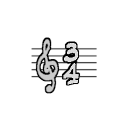
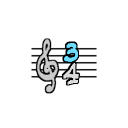
Added TimeSignatures

diff --git a/src/main/java/theRhythmGirl/ui/BeatUI.java b/src/main/java/theRhythmGirl/ui/BeatUI.java
@@ -16,9 +16,12 @@ import com.megacrit.cardcrawl.helpers.FontHelper;
 import com.megacrit.cardcrawl.helpers.Hitbox;
 import com.megacrit.cardcrawl.helpers.PowerTip;
 import com.megacrit.cardcrawl.helpers.TipHelper;
+import com.megacrit.cardcrawl.localization.PowerStrings;
+import com.megacrit.cardcrawl.localization.RelicStrings;
 import com.megacrit.cardcrawl.localization.UIStrings;
 import com.megacrit.cardcrawl.orbs.AbstractOrb;
 import com.megacrit.cardcrawl.powers.AbstractPower;
+import com.megacrit.cardcrawl.relics.AbstractRelic;
 import com.megacrit.cardcrawl.rooms.AbstractRoom;
 import com.megacrit.cardcrawl.rooms.MonsterRoom;
 import com.megacrit.cardcrawl.vfx.combat.FlashPowerEffect;
@@ -27,18 +30,15 @@ import org.apache.logging.log4j.Logger;
 import theRhythmGirl.RhythmGirlMod;
 import theRhythmGirl.cards.AbstractRhythmGirlCard;
 import theRhythmGirl.cards.CoffeeBreak;
-import theRhythmGirl.powers.CoffeeBreakPower;
-import theRhythmGirl.powers.MeasurePower;
-import theRhythmGirl.powers.OnGainBeatSubscriber;
-import theRhythmGirl.powers.RhythmHeavenPower;
-import theRhythmGirl.relics.TimeSignature44;
+import theRhythmGirl.powers.*;
+import theRhythmGirl.relics.*;
 import theRhythmGirl.util.TextureLoader;
 import java.util.ArrayList;
 import java.util.Arrays;
 import java.util.HashMap;
 import java.util.List;
 
-import static theRhythmGirl.RhythmGirlMod.makeUIPath;
+import static theRhythmGirl.RhythmGirlMod.*;
 
 public class BeatUI
 {
@@ -50,7 +50,6 @@ public class BeatUI
     private static final float PILLAR_SPACING_MARGIN = 6.0f;
     private static final float X_OFFSET = 16;
     private static final float Y_OFFSET = 196;
-    private static final int DEFAULT_NUMBER_OF_PILLARS = 4;
     private float floatyTimer = 0;
     private final Hitbox hitbox;
 
@@ -222,7 +221,7 @@ public class BeatUI
         //set target X, Y
         int target = marshalAnimationActive.target;
         if (target == 1 && marshalAnimationActive.type == MarshalAnimationTypes.JUMPING &&  marshalAnimationTimeElapsed <= marshalAnimationDuration/2)
-            target = 5;
+            target = getNumberOfPillars()+1;
         marshalAnimationX = getX()+(target-1)*getPillarSpacing()*Settings.scale
                 -marshalRegion.getRegionWidth()/2.0f*Settings.scale;
         marshalAnimationY = getY()+MARSHAL_FEET_Y_OFFSET*Settings.scale;
@@ -370,11 +369,21 @@ public class BeatUI
         return (lineRegion.getRegionWidth()+allPillarRegions.get(BeatColor.NORMAL).getRegionWidth()+PILLAR_SPACING_MARGIN);
     }
 
-    public int getNumberOfPillars() {
+    public TimeSignature getTimeSignatureRelic(){
+        if (AbstractDungeon.player.hasRelic(TimeSignature24.ID))
+            return (TimeSignature)AbstractDungeon.player.getRelic(TimeSignature24.ID);
+        if (AbstractDungeon.player.hasRelic(TimeSignature34.ID))
+            return (TimeSignature)AbstractDungeon.player.getRelic(TimeSignature34.ID);
         if (AbstractDungeon.player.hasRelic(TimeSignature44.ID))
-            return 4;
-        //logger.error("Player has no time signature relic");
-        return DEFAULT_NUMBER_OF_PILLARS;
+            return (TimeSignature)AbstractDungeon.player.getRelic(TimeSignature44.ID);
+        if (AbstractDungeon.player.hasRelic(TimeSignature54.ID))
+            return (TimeSignature)AbstractDungeon.player.getRelic(TimeSignature54.ID);
+        AbstractDungeon.getCurrRoom().spawnRelicAndObtain((float)(Settings.WIDTH / 2), (float)(Settings.HEIGHT / 2), new TimeSignature54());
+        return getTimeSignatureRelic();
+    }
+
+    public int getNumberOfPillars() {
+        return getTimeSignatureRelic().getNumberOfBeatsPerMeasure();
     }
 
     public float getX() {
@@ -490,8 +499,11 @@ public class BeatUI
                     tips.add(new PowerTip(power.name, power.description, power.region48));
                 }
 
+                AbstractRelic timeSignatureRelic = ((AbstractRelic)getTimeSignatureRelic());
+                tips.add(new PowerTip(timeSignatureRelic.name, timeSignatureRelic.description, timeSignatureRelic.largeImg));
+
                 TipHelper.queuePowerTips(
-                        hitbox.x + hitbox.width + 12*Settings.scale,
+                        hitbox.x + hitbox.width + 16*Settings.scale,
                         hitbox.y + hitbox.height/2 + height/2 + 74 * Settings.scale,
                         tips
                 );

diff --git a/src/main/java/theRhythmGirl/relics/TimeSignature34.java b/src/main/java/theRhythmGirl/relics/TimeSignature34.java
@@ -1,0 +1,54 @@
+package theRhythmGirl.relics;
+
+import basemod.abstracts.CustomRelic;
+import com.badlogic.gdx.graphics.Texture;
+import com.megacrit.cardcrawl.characters.AbstractPlayer;
+import com.megacrit.cardcrawl.dungeons.AbstractDungeon;
+import theRhythmGirl.RhythmGirlMod;
+import theRhythmGirl.util.TextureLoader;
+
+import static theRhythmGirl.RhythmGirlMod.makeRelicOutlinePath;
+import static theRhythmGirl.RhythmGirlMod.makeRelicPath;
+
+public class TimeSignature34 extends CustomRelic implements TimeSignature {
+
+    public static final String ID = RhythmGirlMod.makeID("TimeSignature34");
+
+    private static final Texture IMG = TextureLoader.getTexture(makeRelicPath(TimeSignature34.class.getSimpleName()+".png"));
+    private static final Texture OUTLINE = TextureLoader.getTexture(makeRelicOutlinePath(TimeSignature34.class.getSimpleName()+".png"));
+
+    public TimeSignature34() {
+        super(ID, IMG, OUTLINE, RelicTier.SHOP, LandingSound.MAGICAL);
+    }
+
+    @Override
+    public String getUpdatedDescription() {
+        return DESCRIPTIONS[0];
+    }
+
+    @Override
+    public void instantObtain(AbstractPlayer p, int slot, boolean callOnEquip){
+        // This method is called by StoreRelic.purchaseRelic
+        // Try to overwrite TimeSignature44 instead of taking up a new slot
+        for (int i=0; i<AbstractDungeon.player.relics.size(); i++) {
+            if (AbstractDungeon.player.relics.get(i).relicId.equals(TimeSignature44.ID)) {
+                slot = i;
+                break;
+            }
+        }
+        super.instantObtain(p, slot, callOnEquip);
+    }
+
+    @Override
+    public boolean canSpawn() {return AbstractDungeon.player.hasRelic(TimeSignature44.ID);}
+
+    @Override
+    public void onVictory() {
+        this.counter = -1;
+    }
+
+    @Override
+    public int getNumberOfBeatsPerMeasure() {
+        return 3;
+    }
+}

diff --git a/src/main/java/theRhythmGirl/relics/TimeSignature24.java b/src/main/java/theRhythmGirl/relics/TimeSignature24.java
@@ -1,0 +1,55 @@
+package theRhythmGirl.relics;
+
+import basemod.abstracts.CustomRelic;
+import com.badlogic.gdx.graphics.Texture;
+import com.megacrit.cardcrawl.dungeons.AbstractDungeon;
+import theRhythmGirl.RhythmGirlMod;
+import theRhythmGirl.util.TextureLoader;
+
+import static theRhythmGirl.RhythmGirlMod.makeRelicOutlinePath;
+import static theRhythmGirl.RhythmGirlMod.makeRelicPath;
+
+public class TimeSignature24 extends CustomRelic implements TimeSignature {
+
+    public static final String ID = RhythmGirlMod.makeID("TimeSignature24");
+
+    private static final Texture IMG = TextureLoader.getTexture(makeRelicPath(TimeSignature24.class.getSimpleName()+".png"));
+    private static final Texture OUTLINE = TextureLoader.getTexture(makeRelicOutlinePath(TimeSignature24.class.getSimpleName()+".png"));
+
+    public TimeSignature24() {
+        super(ID, IMG, OUTLINE, RelicTier.BOSS, LandingSound.MAGICAL);
+    }
+
+    @Override
+    public String getUpdatedDescription() {
+        return DESCRIPTIONS[0];
+    }
+
+    @Override
+    public void obtain() {
+        // Overwrite TimeSignature44, or just give the relic if no time signature is found
+        if (AbstractDungeon.player.hasRelic(TimeSignature44.ID)) {
+            for (int i=0; i<AbstractDungeon.player.relics.size(); ++i) {
+                if (AbstractDungeon.player.relics.get(i).relicId.equals(TimeSignature44.ID)) {
+                    instantObtain(AbstractDungeon.player, i, true);
+                    break;
+                }
+            }
+        } else {
+            super.obtain();
+        }
+    }
+
+    @Override
+    public boolean canSpawn() {return AbstractDungeon.player.hasRelic(TimeSignature44.ID);}
+
+    @Override
+    public void onVictory() {
+        this.counter = -1;
+    }
+
+    @Override
+    public int getNumberOfBeatsPerMeasure() {
+        return 2;
+    }
+}

diff --git a/src/main/java/theRhythmGirl/RhythmGirlMod.java b/src/main/java/theRhythmGirl/RhythmGirlMod.java
@@ -341,7 +341,10 @@ public class RhythmGirlMod implements
         // in order to automatically differentiate which pool to add the relic too.
 
         // This adds a character specific relic. Only when you play with the mentioned color, will you get this relic.
+        BaseMod.addRelicToCustomPool(new TimeSignature24(), TheRhythmGirl.Enums.COLOR_RHYTHM_GIRL);
+        BaseMod.addRelicToCustomPool(new TimeSignature34(), TheRhythmGirl.Enums.COLOR_RHYTHM_GIRL);
         BaseMod.addRelicToCustomPool(new TimeSignature44(), TheRhythmGirl.Enums.COLOR_RHYTHM_GIRL);
+        BaseMod.addRelicToCustomPool(new TimeSignature54(), TheRhythmGirl.Enums.COLOR_RHYTHM_GIRL);
         BaseMod.addRelicToCustomPool(new Cowbell(), TheRhythmGirl.Enums.COLOR_RHYTHM_GIRL);
 
         // This adds a relic to the Shared pool. Every character can find this relic.
@@ -350,6 +353,10 @@ public class RhythmGirlMod implements
         // Mark relics as seen - makes it visible in the compendium immediately
         // If you don't have this it won't be visible in the compendium until you see them in game
         // (the others are all starters so they're marked as seen in the character file)
+        UnlockTracker.markRelicAsSeen(TimeSignature24.ID);
+        UnlockTracker.markRelicAsSeen(TimeSignature34.ID);
+        UnlockTracker.markRelicAsSeen(TimeSignature44.ID);
+        UnlockTracker.markRelicAsSeen(TimeSignature54.ID);
         UnlockTracker.markRelicAsSeen(Cowbell.ID);
         logger.info("Done adding relics!");
     }

diff --git a/src/main/java/theRhythmGirl/relics/TimeSignature44.java b/src/main/java/theRhythmGirl/relics/TimeSignature44.java
@@ -3,17 +3,20 @@ package theRhythmGirl.relics;
 import basemod.abstracts.CustomRelic;
 import com.badlogic.gdx.graphics.Texture;
 import theRhythmGirl.RhythmGirlMod;
+import theRhythmGirl.cards.BossaNova;
 import theRhythmGirl.util.TextureLoader;
+
+import java.sql.Time;
 
 import static theRhythmGirl.RhythmGirlMod.makeRelicOutlinePath;
 import static theRhythmGirl.RhythmGirlMod.makeRelicPath;
 
-public class TimeSignature44 extends CustomRelic {
+public class TimeSignature44 extends CustomRelic implements TimeSignature {
 
     public static final String ID = RhythmGirlMod.makeID("TimeSignature44");
 
-    private static final Texture IMG = TextureLoader.getTexture(makeRelicPath("timesignature44.png"));
-    private static final Texture OUTLINE = TextureLoader.getTexture(makeRelicOutlinePath("timesignature44.png"));
+    private static final Texture IMG = TextureLoader.getTexture(makeRelicPath(TimeSignature44.class.getSimpleName()+".png"));
+    private static final Texture OUTLINE = TextureLoader.getTexture(makeRelicOutlinePath(TimeSignature44.class.getSimpleName()+".png"));
 
     public TimeSignature44() {
         super(ID, IMG, OUTLINE, RelicTier.STARTER, LandingSound.MAGICAL);
@@ -27,5 +30,10 @@ public class TimeSignature44 extends CustomRelic {
     @Override
     public void onVictory() {
         this.counter = -1;
+    }
+
+    @Override
+    public int getNumberOfBeatsPerMeasure() {
+        return 4;
     }
 }

diff --git a/src/main/java/theRhythmGirl/relics/TimeSignature54.java b/src/main/java/theRhythmGirl/relics/TimeSignature54.java
@@ -1,0 +1,38 @@
+package theRhythmGirl.relics;
+
+import basemod.abstracts.CustomRelic;
+import com.badlogic.gdx.graphics.Texture;
+import theRhythmGirl.RhythmGirlMod;
+import theRhythmGirl.util.TextureLoader;
+
+import static theRhythmGirl.RhythmGirlMod.makeRelicOutlinePath;
+import static theRhythmGirl.RhythmGirlMod.makeRelicPath;
+
+//this relic is held by the BeatUI and used whenever the player does not have an actual 'Time Signature' relic.
+
+public class TimeSignature54 extends CustomRelic implements TimeSignature {
+
+    public static final String ID = RhythmGirlMod.makeID("TimeSignature54");
+
+    private static final Texture IMG = TextureLoader.getTexture(makeRelicPath(TimeSignature54.class.getSimpleName()+".png"));
+    private static final Texture OUTLINE = TextureLoader.getTexture(makeRelicOutlinePath(TimeSignature54.class.getSimpleName()+".png"));
+
+    public TimeSignature54() {
+        super(ID, IMG, OUTLINE, RelicTier.SPECIAL, LandingSound.MAGICAL);
+    }
+
+    @Override
+    public String getUpdatedDescription() {
+        return DESCRIPTIONS[0];
+    }
+
+    @Override
+    public void onVictory() {
+        this.counter = -1;
+    }
+
+    @Override
+    public int getNumberOfBeatsPerMeasure() {
+        return 5;
+    }
+}

diff --git a/src/main/java/theRhythmGirl/actions/GainAdditionalBeatsAction.java b/src/main/java/theRhythmGirl/actions/GainAdditionalBeatsAction.java
@@ -2,15 +2,12 @@ package theRhythmGirl.actions;
 
 import com.megacrit.cardcrawl.actions.AbstractGameAction;
 import com.megacrit.cardcrawl.core.AbstractCreature;
-import com.megacrit.cardcrawl.dungeons.AbstractDungeon;
 import theRhythmGirl.RhythmGirlMod;
-import theRhythmGirl.relics.TimeSignature44;
 
 //adds a beat and takes time signatures into consideration
 //idea: reword cards with '15 additional beats', to something like 'gain 16 beats instead of 1'
 
 public class GainAdditionalBeatsAction extends AbstractGameAction {
-    int cap;
     int stacksToAdd;
 
     public GainAdditionalBeatsAction(AbstractCreature target, AbstractCreature source) {
@@ -21,10 +18,6 @@ public class GainAdditionalBeatsAction extends AbstractGameAction {
         this.actionType = ActionType.DEBUFF;
         this.target = target;
         this.source = source;
-        if (AbstractDungeon.player.hasRelic(TimeSignature44.ID))
-            this.cap = 4;
-        else
-            this.cap = Integer.MAX_VALUE;
         this.stacksToAdd = stacksToAdd;
     }
 

diff --git a/src/main/java/theRhythmGirl/relics/TimeSignature.java b/src/main/java/theRhythmGirl/relics/TimeSignature.java
@@ -1,0 +1,5 @@
+package theRhythmGirl.relics;
+
+public interface TimeSignature {
+    int getNumberOfBeatsPerMeasure();
+}
